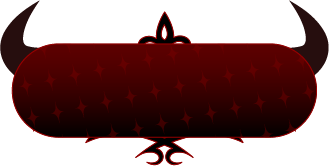
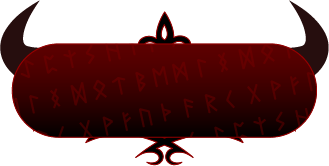
v1.3

diff --git a/SadaAidelei_clock/style.css b/SadaAidelei_clock/style.css
@@ -7,7 +7,7 @@ body {
 
 .box {
     position: relative;
-    width: 350px;
+    width: 400px;
     height: 166px;
 }
 
@@ -81,7 +81,7 @@ body {
 
 .tentacles div:first-child,.tentaclesB div:first-child{
     position: absolute;
-    left: 6px;
+    left: 40px;
     top: 91px;
     transform: rotate(-24deg);
     width: 70px;
@@ -95,7 +95,7 @@ body {
 
 .tentacles div:last-child,.tentaclesB div:last-child{
     position: absolute;
-    right: 0px;
+    right: 20px;
     top: 90px;
     width: 90px;
     height: 70px;
@@ -124,6 +124,54 @@ body {
     animation: eye1_ani 5s infinite ease-in-out reverse;
 }
 
+.clouds{
+    position: absolute;
+    width: 100%;
+    height: 100%;
+}
+
+.clouds div{
+    position: absolute;
+    background: url(img/clock_could.png)no-repeat center / contain;
+}
+
+.clouds div:first-child{
+    top: 25%;
+    left: 0;
+    width: 60%;
+    height: 70px;
+    background-position: left;
+    animation: cloud_ani 5s infinite ease-in-out alternate;
+}
+
+.clouds div:last-child{
+    top: 60%;
+    right: 0;
+    width: 50%;
+    height: 60px;
+    background-position: right;
+    animation: cloud_ani2 5s infinite ease-in-out alternate;
+}
+
+.textL,.textR{
+    position: absolute;
+    width: 30px;
+    height: 30px;
+    top: 75%;
+    filter: drop-shadow(0 0 5px red);
+    background: url(img/text1.png)no-repeat center / contain;
+    animation: text_ani 2s infinite ease-in-out alternate;
+    display: none;
+}
+
+.textL{
+    left: 10%;
+}
+
+.textR{
+    right: 10%;
+    animation-duration: 3s;
+}
 
 @keyframes eye1_ani{
     0%,100%{
@@ -141,5 +189,32 @@ body {
     75%{
         top: 58%;
         left: 42%;
+    }
+}
+
+@keyframes cloud_ani{
+    0%{
+        transform: translateX(0);
+    }
+    100%{
+        transform: translateX(5%);
+    }
+}
+
+@keyframes cloud_ani2{
+    0%{
+        transform: translateX(0);
+    }
+    100%{
+        transform: translateX(-8%);
+    }
+}
+
+@keyframes text_ani{
+    0%{
+        transform: translateY(0);
+    }
+    100%{
+        transform: translateY(-20%);
     }
 }

diff --git a/SadaAidelei_clock/SadaAidelei_clock.html b/SadaAidelei_clock/SadaAidelei_clock.html
@@ -9,6 +9,11 @@
 <body>
     <div class="box">
 
+        <div class="clouds">
+            <div></div>
+            <div></div>
+        </div>
+
         <div class="tentaclesB">
             <div></div>
             <div></div>
@@ -29,6 +34,8 @@
         </div>
 
         <div class="eyes"></div>
+        <div class="textL"></div>
+        <div class="textR"></div>
 
     </div>
 
@@ -56,22 +63,13 @@
             return i;
         }
 
-        function eyeShow() {
-
-            $('.eyes').delay(100).animate({
-                'width': sizeR + 'px',
-                'height': sizeR + 'px',
-
-            }, 1000)
-        }
-
         setInterval(() => {
             let tR = 40 + Math.random() * 60,
                 lR = 10 + Math.random() * 80,
                 sizeR = 30 + Math.random() * 10
 
-            if(lR > 15 && lR < 85){
-                let ar=[40,90]
+            if (lR > 15 && lR < 85) {
+                let ar = [40, 90]
                 tR = ar[Math.floor(Math.random() * 2)]
                 console.log(lR + '/' + tR)
             }
@@ -97,6 +95,33 @@
             }, 8000);
 
         }, 10000);
+
+        setInterval(() => {
+            $('.textL').css({
+                'top': 20 + Math.random() * 55 + '%',
+                'background-image': 'url(img/text' + (Math.floor(Math.random() * 8) + 1) + '.png)'
+            })
+
+            $('.textL').delay(1000).fadeIn(500)
+            
+            $('.textL').delay(2500).fadeOut(500)
+
+
+        }, 5000);
+        
+        setInterval(() => {
+
+            $('.textR').css({
+                'top': 20 + Math.random() * 55 + '%',
+                'background-image': 'url(img/text' + (Math.floor(Math.random() * 8) + 1) + '.png)'
+            })
+
+            $('.textR').delay(2000).fadeIn(500)
+            
+            $('.textR').delay(3500).fadeOut(500)
+
+
+        }, 6500);
 
     </script>
 </body>
